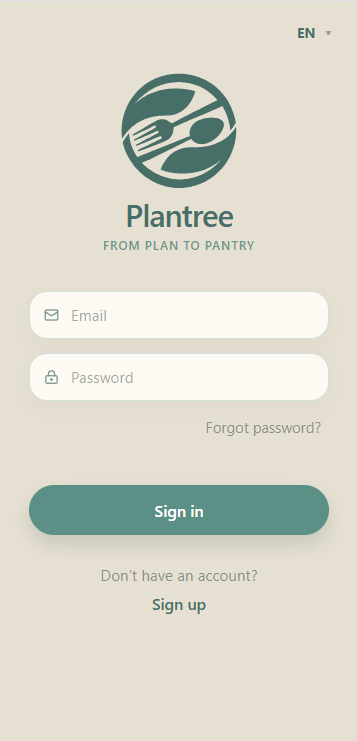
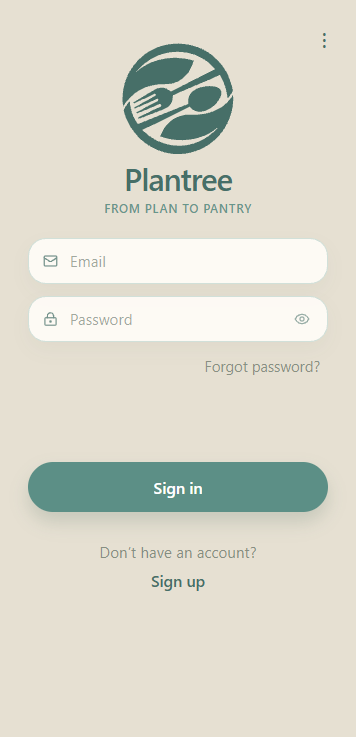
tech section updated

Changed region(s): [[0.0618, 0.0312, 0.927, 0.5929], [0.0618, 0.6242, 0.927, 0.8426], [0.8343, 0.0312, 0.927, 0.0624]]

diff --git a/src/app/features/projects/plantree-detail/plantree-detail.html b/src/app/features/projects/plantree-detail/plantree-detail.html
@@ -35,6 +35,12 @@
     </p>
 
     <p>
+        Plantree started from a simple problem at home: the recurring question of what we were going to eat.
+        I built it to make those everyday decisions easier by keeping meal planning, shopping, and what we
+        already have at home connected in one place.
+    </p>
+
+    <p>
         The name Plantree comes from three ideas at the core of the product: <strong>Plan</strong>,
         <strong>Pantry</strong>, and the idea of a growing <strong>Tree</strong> of connected household
         decisions. What starts as a meal plan naturally grows into shopping lists, pantry inventory, and cooking
@@ -105,10 +111,8 @@
     </p>
 
     <p>
-        Currently, collaboration takes place between members within the same household account.
-        Future development includes account-based shared spaces that allow multiple households
-        to collaborate through invitations while keeping their private recipes, pantry inventory,
-        grocery lists, and household data separate unless explicitly shared.
+        Collaboration takes place between members within the same household account, while spaces
+        provide separate contexts for planning, pantry data, grocery lists, and household activity.
     </p>
 
     <p class="system-intro">
@@ -692,20 +696,32 @@
     </p>
 
     <p>
-        The frontend is built with standalone Angular components and SCSS, using a shared design system with reusable
-        layouts, chips, dialogs, cards, bottom sheets, and responsive breakpoints across mobile, tablet, and desktop
-        devices.
+        The frontend is built with Angular, TypeScript, RxJS, and SCSS, using standalone components and a shared design
+        system with reusable layouts, chips, dialogs, cards, bottom sheets, and responsive breakpoints across mobile,
+        tablet, and desktop devices.
     </p>
 
     <p>
-        Supabase powers authentication, realtime synchronization, database storage, and image uploads.
-        Realtime subscriptions keep shared household data synchronized across devices, supporting collaborative
-        planning, grocery management, and pantry workflows.
+        Supabase powers authentication, PostgreSQL data storage, Realtime synchronization, and private file storage.
+        Row Level Security (RLS) keeps application data scoped to the appropriate household account, while private
+        Storage buckets use access policies and signed URLs to protect meal images and member avatars.
     </p>
 
     <p>
-        Authentication is handled through Supabase and provides account-based
-        access to personal household data.
+        Supabase Realtime keeps shared Grocery Lists synchronized across household devices, allowing changes made by
+        one household member to appear for others without manual refresh.
+    </p>
+
+    <p>
+        Authentication is handled through Supabase, with signup, email verification, login, password recovery,
+        and password reset flows. Transactional authentication emails are delivered through Resend using
+        Plantree's custom domain.
+    </p>
+
+    <p>
+        Plantree is deployed through Cloudflare Pages at plantree.io with HTTPS and Progressive Web App support.
+        Deployment is connected to the GitHub repository through a CI/CD workflow, so production updates are built
+        and published from the project source.
     </p>
 
     <img class="shot-mobile" src="assets/images/plantree/login-screen.png" alt="Plantree login screen" />

diff --git a/src/app/features/projects/peacely-detail/peacely-detail.scss b/src/app/features/projects/peacely-detail/peacely-detail.scss
@@ -4,7 +4,7 @@
 
 :host {
     display: block;
-    min-height: 100vh;
+    min-height: 100svh;
     background:
         radial-gradient(circle at top left, rgba(244, 232, 218, 0.24), transparent 32%),
         linear-gradient(180deg, #fffaf5 0%, #f8eee4 55%, #fff8f2 100%);
